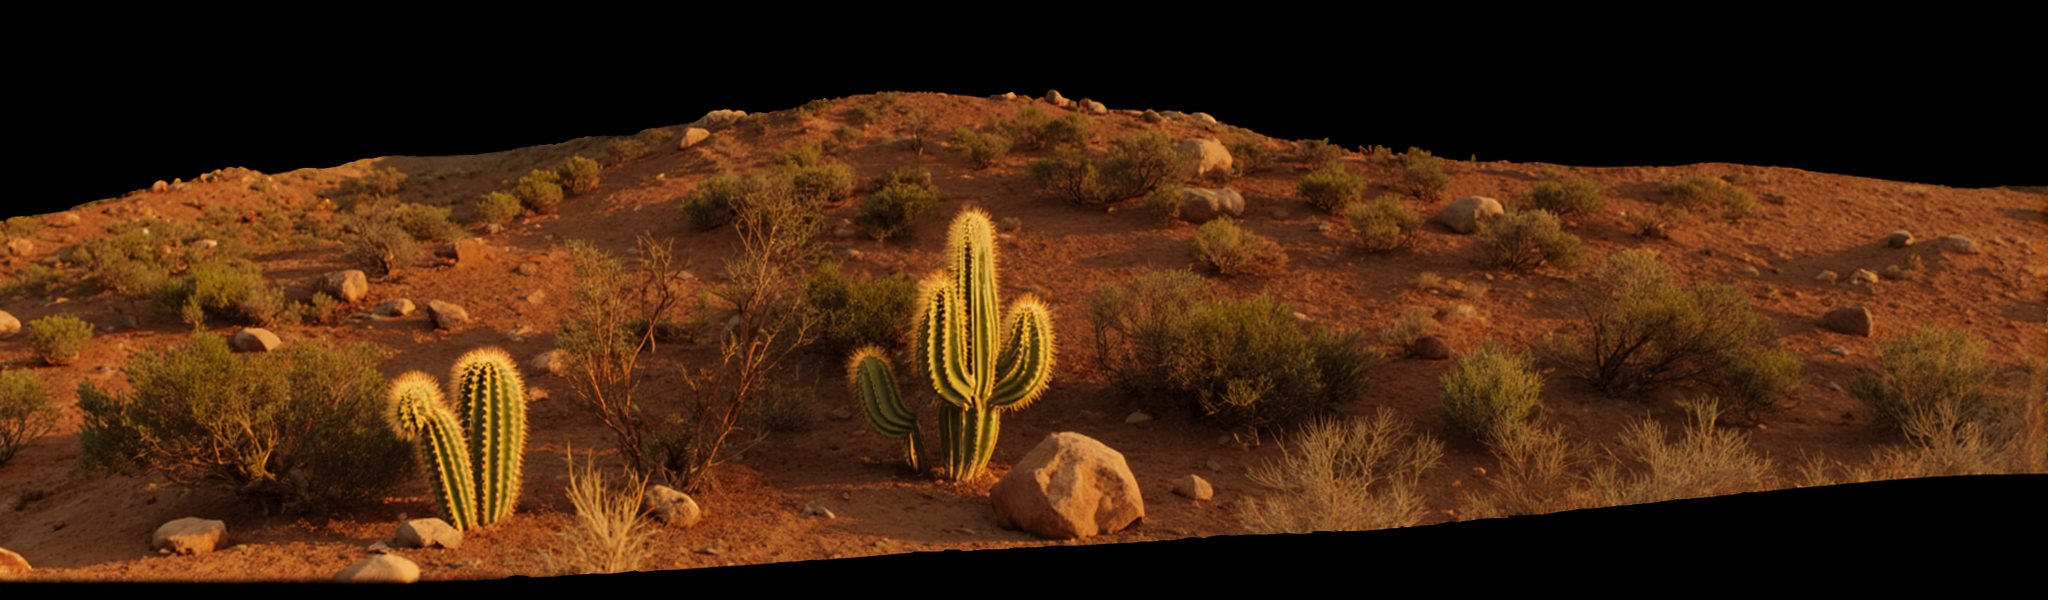
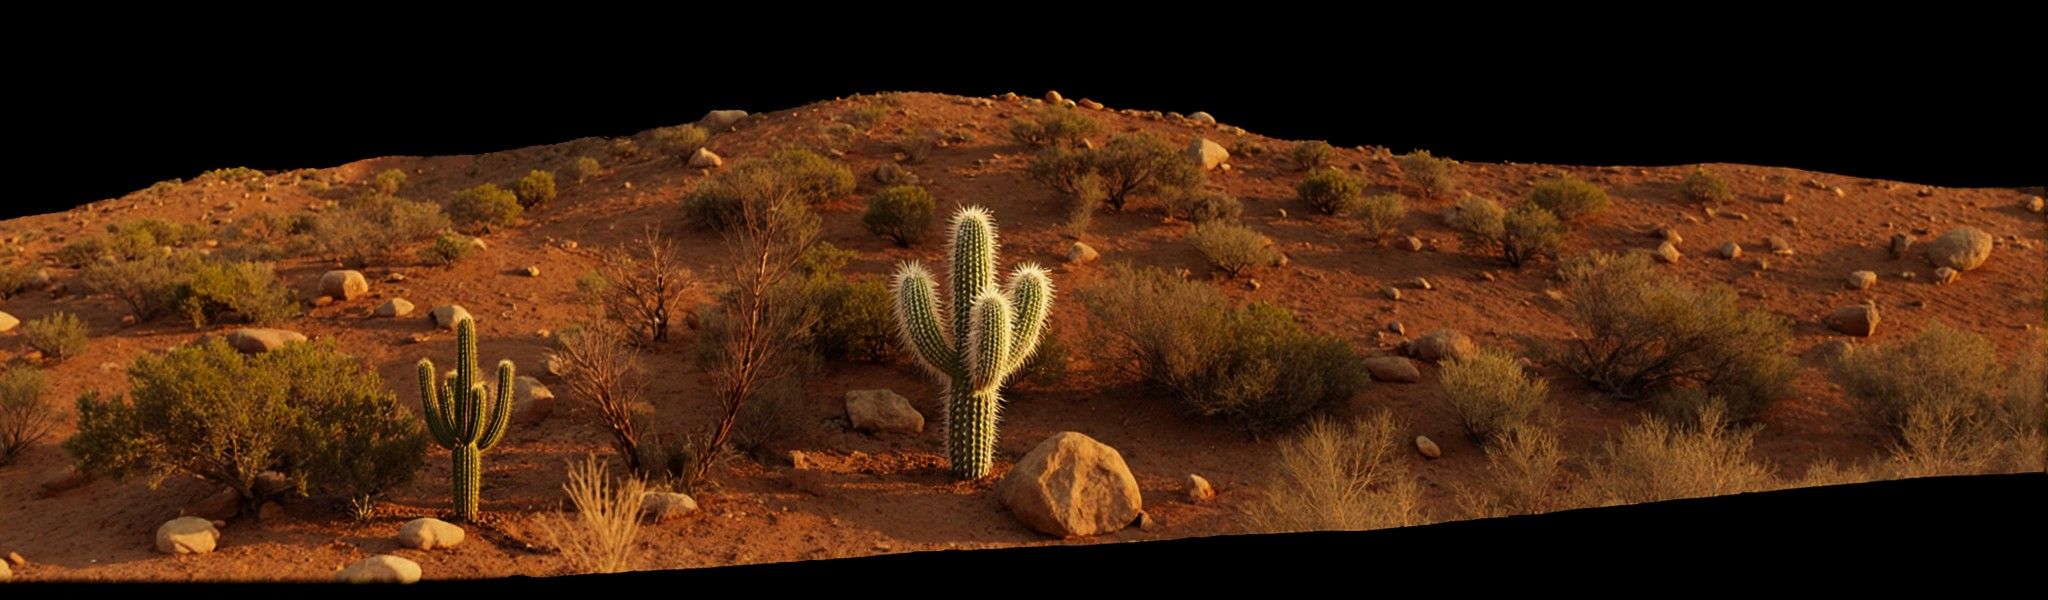
B1.03: cardones variados en las montanas con las fotos de referencia del equipo
Izquierda: dos cardones viejos, uno joven, uno de muchos brazos y uno florecido.
Derecha: candelabro y pasacana claro y peludo. Cada cactus generico se reemplaza en su lugar
y altura; se acepta solo si la ladera alrededor queda igual. Centro y timelapse sin cambios.

Changed region(s): [[0.0, 0.15, 1.0, 0.99], [0.0, 0.81, 0.0312, 0.84]]

diff --git a/pipeline/b1_atardecer_2025/cardones_fix2.py b/pipeline/b1_atardecer_2025/cardones_fix2.py
@@ -1,0 +1,115 @@
+# -*- coding: utf-8 -*-
+"""B1.03 · cardones variados con control de calidad por zona.
+Cada recorte -> Qwen (recorte + referencia, o solo texto si la referencia contamina) -> se acepta solo si el borde del recorte
+(la ladera alrededor) quedó igual (diff medio < UMBRAL) -> pegado solo de lo que cambió con color medido en el suelo ->
+Flux suave -> máscara + silueta 2025.
+Uso: python cardones_fix2.py DIR_FIJOS DIR_PREVIOS_RAW DIR_SALIDA [denoise]"""
+import glob, os, sys, hashlib
+HERE = os.path.dirname(os.path.abspath(__file__))
+sys.path.insert(0, HERE); sys.path.insert(0, "D:/FNT2026/WEB_FNT2026/pipeline")
+import numpy as np
+from PIL import Image, ImageFilter
+import comfy, graphs, surfaces, flux_cine
+
+FIJOS, PREV, OUT = sys.argv[1], sys.argv[2], sys.argv[3]; os.makedirs(os.path.join(OUT, "raw"), exist_ok=True)
+DEN = float(sys.argv[4]) if len(sys.argv) > 4 else 0.25
+UMBRAL = 30.0
+REFD = "D:/FNT2026/03_BLOQUES/B1_PAISAJES/B1.03_PASTORES/01_REFERENCIAS/cardones"
+REFS = sorted(glob.glob(REFD + "/*.png") + glob.glob(REFD + "/*.jpg"))
+EXT = {"izq": "left", "der": "right"}
+VAR = {
+    1: "a flowering cardon cactus with ribbed green columns and golden spines, with large white flowers and pink-red hairy flower buds on the tips of the arms",
+    2: "a pale hairy cardon cactus (Leucostele pasacana) covered in long whitish-golden spines, with a thick trunk and three upturned arms",
+    3: "an old many-armed green cardon cactus (Leucostele terscheckii) with many tall upturned ribbed arms branching from a short trunk, golden spines",
+    4: "a classic candelabra cardon cactus with a tall trunk and four or five upturned arms, golden-brown spines",
+    5: "two tall old cardon cacti side by side, weathered ribbed columns with a couple of arms and small round woodpecker holes",
+    6: "a tall old cardon with two arms next to a few young single-column cardones",
+}
+ZONAS = {
+    "izq": [(520, 90, 800, 340, 5), (800, 190, 1070, 450, 3), (1210, 270, 1490, 520, 1), (520, 270, 610, 400, 2)],
+    "der": [(340, 300, 580, 560, 4), (790, 170, 1110, 510, 2)],
+}
+
+
+def prompt(s, v, con_ref):
+    p = "Replace the cactus or cacti in image 1 with " + VAR[v]
+    p += ", like the plant in the reference photo (image 2), but only the plant: do not copy the sky, background or ground of image 2. " if con_ref else ". "
+    return p + ("It is an Argentine cardon of the Andean valleys, not a Mexican saguaro. Keep it in the same place, standing on the same ground, with the same "
+                "height and the same size in the frame as the cactus it replaces. Light it with the warm golden sunset light coming from the " + EXT[s] +
+                " like the rest of image 1, with a long soft shadow on the ground. Keep the reddish hillside behind it, the ground, stones, dry shrubs and "
+                "everything else in image 1 exactly the same, with the same warm sunset colors and the same framing; only the cactus changes. Photorealistic.")
+
+
+def blur(m, r):
+    return np.asarray(Image.fromarray((np.clip(m, 0, 1) * 255).astype(np.uint8)).filter(ImageFilter.GaussianBlur(r))).astype(np.float32) / 255
+
+
+def dil(m, k):
+    return np.asarray(Image.fromarray((m * 255).astype(np.uint8)).filter(ImageFilter.MaxFilter(k))).astype(np.float32) / 255
+
+
+def borde_diff(res, crop):
+    h, w = crop.shape[:2]; f = max(6, min(h, w) // 10)
+    ring = np.zeros((h, w), bool); ring[:f] = 1; ring[-f:] = 1; ring[:, :f] = 1; ring[:, -f:] = 1
+    m = ring & (crop.mean(-1) > 20)
+    return float(np.abs(res - crop).mean(-1)[m].mean()) if m.sum() > 50 else 0.0
+
+
+def pegar(crop, res):
+    diff = np.abs(res - crop).mean(-1)
+    cambio = dil((blur((diff > 28).astype(np.float32), 1.5) > 0.35).astype(np.float32), 7)
+    bg = cambio < 0.5; adj = res.copy()
+    if bg.sum() > 200:
+        for c in range(3):
+            rm, rs = res[..., c][bg].mean(), res[..., c][bg].std() + 1e-3
+            cm, cs = crop[..., c][bg].mean(), crop[..., c][bg].std() + 1e-3
+            adj[..., c] = (res[..., c] - rm) * (cs / rs) + cm
+    borde = np.zeros(cambio.shape, np.float32); f = 8; borde[f:-f, f:-f] = 1; borde = blur(borde, 4)
+    m = blur(cambio, 3) * borde
+    return crop * (1 - m[..., None]) + np.clip(adj, 0, 255) * m[..., None]
+
+
+ref_names = {}
+for i, p in enumerate(REFS, 1):
+    im = Image.open(p).convert("RGB"); im.thumbnail((1024, 1024))
+    ref_names[i] = comfy.put_input(im, f"fnt26_cardon_ref_{i}.png")
+for s in ("izq", "der"):
+    base = Image.open(os.path.join(FIJOS, f"B1.03_{s}_d0.5.png")).convert("RGB")
+    out = np.asarray(base).astype(np.float32).copy()
+    seed = int(hashlib.md5(("B1.03" + s + "card").encode()).hexdigest()[:6], 16)
+    for k, (x0, y0, x1, y1, v) in enumerate(ZONAS[s]):
+        crop = out[y0:y1, x0:x1].copy(); sz = (x1 - x0, y1 - y0)
+        ok = None
+        # 1) lo ya generado
+        for p in sorted(glob.glob(os.path.join(PREV, f"{s}_z{k}_*.png"))):
+            r = np.asarray(Image.open(p).convert("RGB").resize(sz, Image.LANCZOS)).astype(np.float32)
+            d = borde_diff(r, crop); print(s, k, "previo", os.path.basename(p), round(d, 1), flush=True)
+            if d < UMBRAL: ok = r; break
+        # 2) intentos nuevos: con referencia (otra semilla y prompt reforzado) y después solo texto
+        intentos = [(True, seed + k + 100), (False, seed + k), (False, seed + k + 200), (True, seed + k + 300), (False, seed + k + 400)]
+        cimg = Image.fromarray(crop.astype(np.uint8)); fac = 3 if max(sz) < 300 else 2
+        cn = None
+        for n, (con_ref, sd) in enumerate(intentos):
+            if ok is not None: break
+            if cn is None:
+                cn = comfy.put_input(cimg.resize((sz[0] * fac, sz[1] * fac), Image.LANCZOS), f"fnt26_b103_{s}_z{k}_v2.png")
+            imgs = [cn, ref_names[v]] if con_ref else [cn]
+            rr = comfy.run(graphs.qwen_edit(imgs, prompt(s, v, con_ref), sd, f"FNT26/B103card3/{s}_z{k}_t{n}", megapixels=1.0),
+                           os.path.join(OUT, "raw"), label=f"B1.03 {s} zona {k} intento {n} ref={con_ref}")
+            r = np.asarray(Image.open(rr[0]).convert("RGB").resize(sz, Image.LANCZOS)).astype(np.float32)
+            d = borde_diff(r, crop); print(s, k, "intento", n, "ref" if con_ref else "texto", round(d, 1), flush=True)
+            if d < UMBRAL: ok = r
+        if ok is None:
+            print(s, k, "SIN RESULTADO ACEPTABLE: se deja el cactus original", flush=True); continue
+        Image.fromarray(ok.astype(np.uint8)).save(os.path.join(OUT, f"B1.03_{s}_zona{k}_ok.png"))
+        out[y0:y1, x0:x1] = pegar(crop, ok)
+    img = Image.fromarray(out.astype(np.uint8)); img.save(os.path.join(OUT, f"B1.03_{s}_2_cardones.png"))
+    w, h = surfaces.SURF[s][3]
+    pf = flux_cine.prompt("B1.03", s).replace("small round cacti", "varied Argentine cardon cacti (flowering, hairy pasacana, many-armed)")
+    r = comfy.run(flux_cine.flux_i2i(comfy.put_input(img, f"fnt26_b103_{s}_p3.png"), pf, w, h, seed, f"FNT26/B103card3/{s}_flux", DEN), os.path.join(OUT, "raw"), label=f"B1.03 {s} flux {DEN}")
+    fin = surfaces.apply_mask(Image.open(r[0]).convert("RGB"), s)
+    sil = flux_cine.silueta_2025("B1.03", s, fin.size)
+    fin = Image.fromarray((np.asarray(fin).astype(np.float32) * sil[..., None] + .5).astype(np.uint8))
+    fin.save(os.path.join(OUT, f"B1.03_{s}_final_d{DEN}.png"))
+    print("ok", s, flush=True)
+print("===LISTO===")
